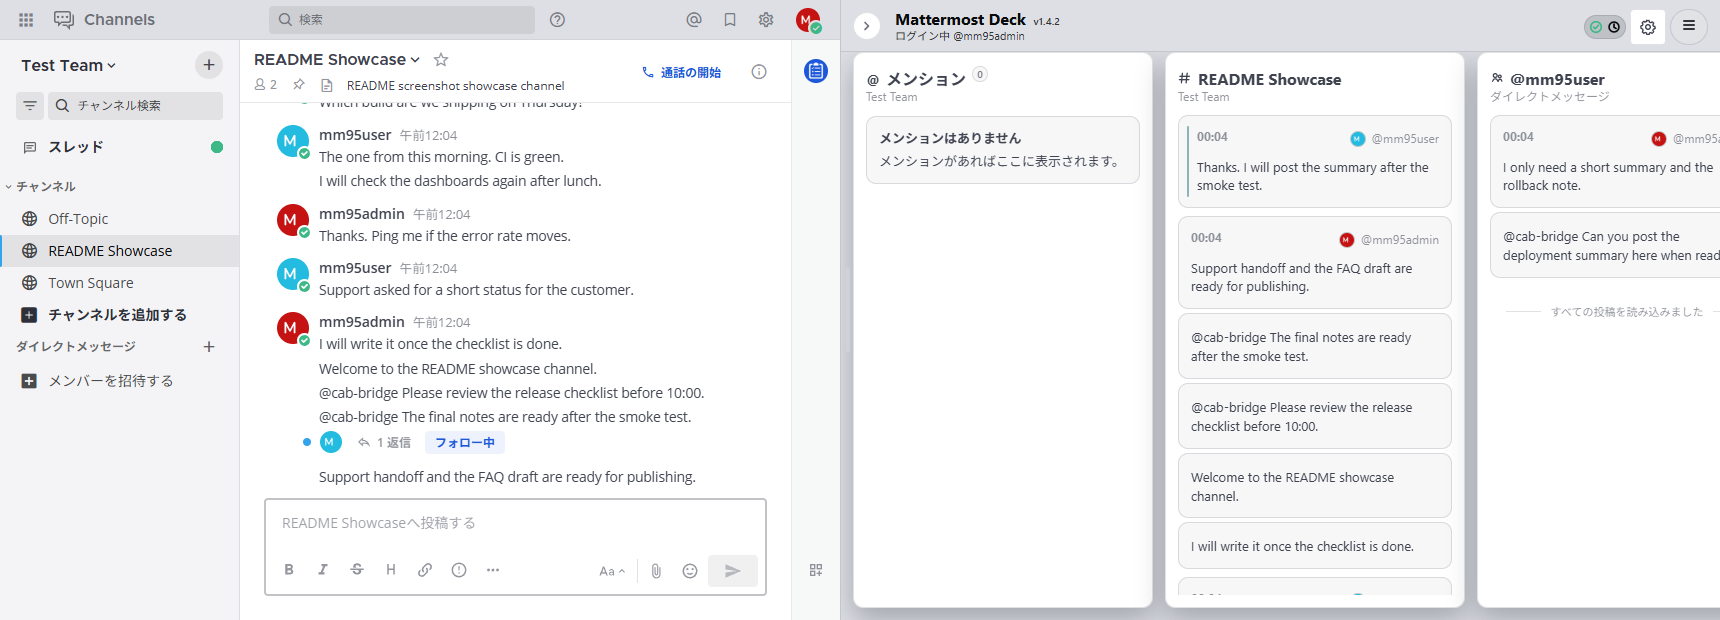
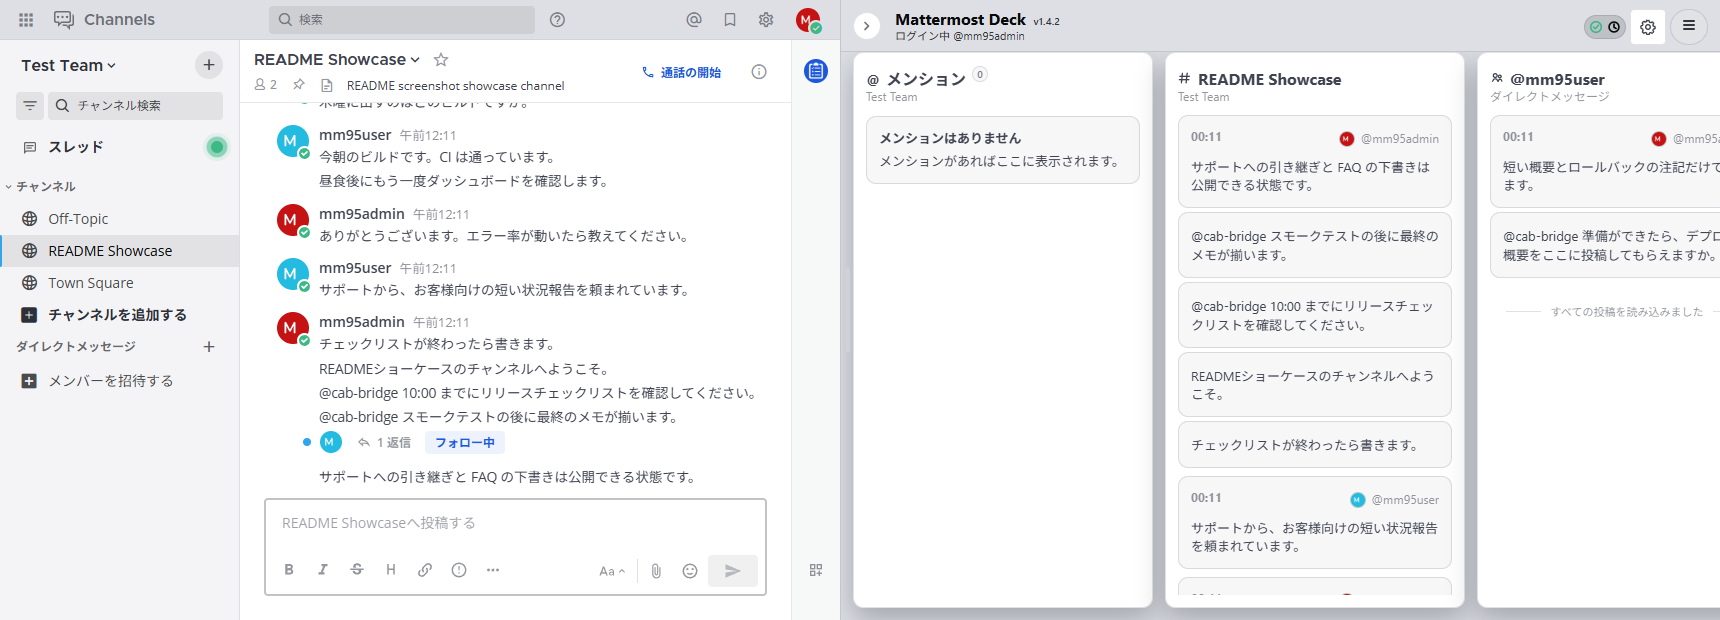
update: localized post text in site screenshots, CSP-clean external CSS/JS for deck-tone mock

diff --git a/mock/deck-tone.html b/mock/deck-tone.html
@@ -6,129 +6,8 @@
 <title>Mattermost Deck</title>
 <meta name="robots" content="noindex">
 <link rel="icon" href="shots/icon.png">
-<script>try{var t=localStorage.getItem('mattermost-deck-site-theme');if(!t)t=matchMedia('(prefers-color-scheme: light)').matches?'light':'dark';document.documentElement.dataset.theme=t}catch(e){}</script>
-<style>
-:root{
-  color-scheme:dark;
-  --mm:#262b32; --rp:#2b3340; --dbg:rgba(28,88,217,.16); --dbd:rgba(138,180,255,.35); --shotbg:#000;
-  --bg:#0f1114; --bar:#0a0b0d; --pane:#16191d; --card:#1b1f24; --card2:#20252b;
-  --line:rgba(255,255,255,.08); --line2:rgba(255,255,255,.14);
-  --text:#e8ecf1; --soft:#aab3be; --faint:#7d8793;
-  --btn:#1c58d9; --btn-h:#2466ec; --accent:#8ab4ff;
-  --r:10px; --gap:12px;
-  --font:"Segoe UI","Noto Sans JP","Yu Gothic UI",Meiryo,system-ui,sans-serif;
-  --mono:ui-monospace,Consolas,Menlo,monospace;
-}
-
-:root[data-theme="light"]{
-  color-scheme:light;
-  --bg:#eef1f5; --bar:#fff; --pane:#fff; --card:#f6f8fa; --card2:#e9edf2;
-  --line:rgba(20,30,45,.10); --line2:rgba(20,30,45,.18);
-  --text:#1b2330; --soft:#4a5565; --faint:#6b7685;
-  --btn:#1c58d9; --btn-h:#1549b8; --accent:#1c58d9;
-  --mm:#e3e8ee; --rp:#d5dde8; --dbg:rgba(28,88,217,.10); --dbd:rgba(28,88,217,.45); --shotbg:#fff;
-}
-*{box-sizing:border-box}
-html{scroll-behavior:smooth;scroll-padding-top:60px}
-body{margin:0;background:var(--bg);color:var(--text);font:14px/1.75 var(--font)}
-a{color:var(--accent)}
-img{max-width:100%;height:auto;display:block}
-code,kbd{font-family:var(--mono);font-size:.9em;background:var(--card2);border:1px solid var(--line);border-radius:4px;padding:0 .35em}
-html[data-lang="ja"] [lang="en"], html[data-lang="en"] [lang="ja"]{display:none}
-.wrap{width:min(1120px,100% - 24px);margin:0 auto}
-
-/* top bar (Deck header) */
-.bar{position:sticky;top:0;z-index:10;background:var(--bar);border-bottom:1px solid var(--line)}
-.bar .wrap{display:flex;align-items:center;gap:var(--gap);height:48px}
-.brand{display:flex;align-items:center;gap:8px;color:var(--text);text-decoration:none;font-weight:600}
-.brand img{width:22px;height:22px;border-radius:5px}
-.brand small{font-weight:400;font-size:11px;color:var(--faint)}
-.bar nav{margin-left:auto;display:flex;gap:4px}
-.bar nav a{color:var(--soft);text-decoration:none;font-size:13px;padding:4px 10px;border-radius:6px}
-.bar nav a:hover{background:var(--card);color:var(--text)}
-.seg{display:flex;border:1px solid var(--line2);border-radius:7px;overflow:hidden}
-.seg button{all:unset;cursor:pointer;font-size:12px;padding:4px 10px;color:var(--soft)}
-.seg button[aria-pressed="true"]{background:var(--card2);color:var(--text)}
-.seg button:focus-visible,.btn:focus-visible,.bar nav a:focus-visible{outline:2px solid var(--accent);outline-offset:2px}
-.tt{all:unset;cursor:pointer;width:30px;height:28px;display:grid;place-items:center;border:1px solid var(--line2);border-radius:7px;color:var(--soft)}
-.tt:hover{background:var(--card);color:var(--text)}.tt:focus-visible{outline:2px solid var(--accent);outline-offset:2px}
-.tt svg{width:15px;height:15px;stroke:currentColor;fill:none;stroke-width:1.5;stroke-linecap:round}
-.tt .sun{display:none}:root[data-theme="light"] .tt .sun{display:block}:root[data-theme="light"] .tt .moon{display:none}
-.btn{display:inline-block;background:var(--btn);color:#fff;text-decoration:none;font-weight:600;font-size:13px;padding:6px 14px;border-radius:7px}
-.btn:hover{background:var(--btn-h)}
-.btn.ghost{background:transparent;border:1px solid var(--line2);color:var(--text);font-weight:400}
-.btn.ghost:hover{background:var(--card)}
-
-/* pane / card */
-.pane{background:var(--pane);border:1px solid var(--line);border-radius:var(--r);padding:var(--gap)}
-.pane>h2{margin:0 0 var(--gap);font-size:15px;font-weight:600;display:flex;align-items:baseline;gap:8px}
-.pane>h2 .sub{font-size:12px;font-weight:400;color:var(--faint)}
-.card{background:var(--card);border:1px solid var(--line);border-radius:8px;padding:10px 12px}
-.card+.card{margin-top:8px}
-.card b{font-weight:600}
-.card p{margin:2px 0 0;color:var(--soft);font-size:13px}
-.id{font-family:var(--mono);font-size:11px;color:var(--faint);margin-left:6px;font-weight:400}
-
-main{padding:var(--gap) 0 24px;display:grid;gap:var(--gap)}
-.cols{display:grid;gap:var(--gap)}
-@media(min-width:860px){
-  .cols.a{grid-template-columns:5fr 7fr}
-  .cols.b{grid-template-columns:7fr 5fr}
-  .cols.c{grid-template-columns:1fr 1fr}
-}
-
-/* hero */
-.hero{display:grid;gap:var(--gap)}
-@media(min-width:860px){.hero{grid-template-columns:minmax(0,4fr) minmax(0,8fr)}}
-.hero .intro{display:flex;flex-direction:column;gap:12px}
-.hero h1{margin:0;font-size:22px;line-height:1.5;font-weight:600;word-break:auto-phrase}
-.hero p{margin:0;color:var(--soft)}
-.hero .actions{display:flex;gap:8px;flex-wrap:wrap;margin-top:4px}
-.spec{width:100%;border-collapse:collapse;font-size:13px;margin-top:auto}
-.spec th{width:6.5em;text-align:left;font-weight:400;color:var(--faint);padding:5px 0;border-top:1px solid var(--line);vertical-align:top}
-.spec td{padding:5px 0;border-top:1px solid var(--line);color:var(--soft)}
-:root[data-theme="light"] .t-dark,:root[data-theme="dark"] .t-light{display:none}
-.shot{margin:0;display:block;border:1px solid var(--line2);border-radius:8px;overflow:hidden;background:var(--shotbg)}
-figcaption{font-size:12px;color:var(--faint);margin-top:8px}
-
-.lead{margin:0 0 var(--gap);color:var(--soft);max-width:70em}
-.stack{display:grid;gap:var(--gap)}
-.band{display:flex;height:26px;font-size:12px;line-height:26px;margin-top:-1px}
-.band .seg{display:block;text-align:center;white-space:nowrap;overflow:hidden;text-overflow:ellipsis;color:var(--soft);background:var(--mm);border-top:2px solid var(--line2)}
-.band .seg+.seg{border-left:1px solid var(--bg)}
-.band .rp{background:var(--rp)}
-.band .dk{background:var(--dbg);color:var(--accent);border-top-color:var(--dbd)}
-@media(max-width:620px){.band{font-size:10px}}
-
-/* tables */
-table.list{width:100%;border-collapse:collapse;font-size:13px}
-table.list td{padding:8px 10px;border-top:1px solid var(--line);vertical-align:top;color:var(--soft)}
-table.list tr:first-child td{border-top:0}
-table.list td.k{color:var(--text);white-space:nowrap;font-weight:600;width:1%;padding-right:18px}
-@media(max-width:620px){
-  table.list,table.list tbody,table.list tr,table.list td{display:block;width:auto}
-  table.list tr{padding:8px 0;border-top:1px solid var(--line)}
-  table.list tr:first-child{border-top:0}
-  table.list td{border:0;padding:1px 2px}
-  table.list td.k{width:auto}
-}
-.shots{display:grid;gap:var(--gap);align-items:start}
-@media(min-width:700px){.shots{grid-template-columns:1fr 1fr}}
-ol.tips{margin:0;padding:0;list-style:none;display:grid;gap:8px}
-@media(min-width:700px){ol.tips{grid-template-columns:1fr 1fr}}
-ol.tips li{background:var(--card);border:1px solid var(--line);border-radius:8px;padding:10px 12px;color:var(--soft);font-size:13px}
-details{background:var(--card);border:1px solid var(--line);border-radius:8px;padding:0 12px}
-details+details{margin-top:8px}
-summary{cursor:pointer;padding:9px 0;font-weight:600;font-size:13.5px}
-details p{margin:0 0 10px;color:var(--soft);font-size:13px}
-.steps{display:grid;gap:8px;counter-reset:s}
-.steps .card{counter-increment:s}
-.steps .card b::before{content:counter(s) ".";color:var(--faint);margin-right:.5em;font-family:var(--mono);font-weight:400}
-footer{border-top:1px solid var(--line);color:var(--faint);font-size:12px;padding:16px 0 28px}
-footer .wrap{display:flex;flex-wrap:wrap;gap:6px 18px}
-footer a{color:var(--soft)}
-@media(max-width:620px){.brand small,.bar .btn{display:none}.brand,.btn{white-space:nowrap}.bar nav{display:none}.bar .wrap{justify-content:space-between}.seg{margin-left:auto}.hero h1{font-size:19px}}
-</style>
+<script src="deck-tone-theme-init.js"></script>
+<link rel="stylesheet" href="deck-tone.css">
 </head>
 <body>
 <header class="bar">
@@ -192,20 +71,20 @@ footer a{color:var(--soft)}
         <img class="t-dark" lang="en" src="shots/wide-dark-en.png" width="1720" height="620" loading="lazy" alt="Deck displayed beside Mattermost">
         <img class="t-light" lang="ja" src="shots/wide-light-ja.png" width="1720" height="620" loading="lazy" alt="Mattermost の右側に Deck を表示した画面">
         <img class="t-light" lang="en" src="shots/wide-light-en.png" width="1720" height="620" loading="lazy" alt="Deck displayed beside Mattermost">
-        <div class="band" aria-hidden="false"><span class="seg mm" style="width:48.84%"><span lang="ja">Mattermost メインコンテンツ</span><span lang="en">Mattermost main content</span></span><span class="seg dk" style="width:51.16%">Deck</span></div>
+        <div class="band" aria-hidden="false"><span class="seg mm w4884"><span lang="ja">Mattermost メインコンテンツ</span><span lang="en">Mattermost main content</span></span><span class="seg dk w5116" >Deck</span></div>
       </figure>
       <figure class="shot annotated">
         <img class="t-dark" lang="ja" src="shots/rhs-dark-ja.png" width="1720" height="620" loading="lazy" alt="スレッドを右ペインで開いたときの画面">
         <img class="t-dark" lang="en" src="shots/rhs-dark-en.png" width="1720" height="620" loading="lazy" alt="With a thread open in the right pane">
         <img class="t-light" lang="ja" src="shots/rhs-light-ja.png" width="1720" height="620" loading="lazy" alt="スレッドを右ペインで開いたときの画面">
         <img class="t-light" lang="en" src="shots/rhs-light-en.png" width="1720" height="620" loading="lazy" alt="With a thread open in the right pane">
-        <div class="band"><span class="seg mm" style="width:46%"><span lang="ja">Mattermost メインコンテンツ</span><span lang="en">Mattermost main content</span></span><span class="seg rp" style="width:31.9%"><span lang="ja">右ペイン（スレッド）</span><span lang="en">Right pane (thread)</span></span><span class="seg dk" style="width:22.1%"><span lang="ja">Deck（縮む）</span><span lang="en">Deck (narrower)</span></span></div>
+        <div class="band"><span class="seg mm w46"><span lang="ja">Mattermost メインコンテンツ</span><span lang="en">Mattermost main content</span></span><span class="seg rp w319"><span lang="ja">右ペイン（スレッド）</span><span lang="en">Right pane (thread)</span></span><span class="seg dk w221"><span lang="ja">Deck（縮む）</span><span lang="en">Deck (narrower)</span></span></div>
       </figure>
     </div>
   </section>
 
   <section id="rows" class="cols b">
-    <figure class="shot" style="align-self:start">
+    <figure class="shot top">
         <img class="t-dark" lang="ja" src="shots/two-rows-dark-ja.png" width="1720" height="948" loading="lazy" alt="上下 2 段に並べたペイン">
         <img class="t-dark" lang="en" src="shots/two-rows-dark-en.png" width="1720" height="948" loading="lazy" alt="Panes arranged in two rows">
         <img class="t-light" lang="ja" src="shots/two-rows-light-ja.png" width="1720" height="948" loading="lazy" alt="上下 2 段に並べたペイン">
@@ -238,8 +117,8 @@ footer a{color:var(--soft)}
   </section>
 
   <section class="shots">
-    <figure class="shot"><img lang="ja" src="shots/overview-light-ja.png" width="1720" height="948" loading="lazy" alt="Deck ライトテーマ"><img lang="en" src="shots/overview-light-en.png" width="1720" height="948" loading="lazy" alt="Deck, light theme"><figcaption style="padding:0 10px 8px"><span lang="ja">ライトテーマ（Mattermost のテーマに追従します）</span><span lang="en">Light theme (Deck follows your Mattermost theme)</span></figcaption></figure>
-    <figure class="shot"><img lang="ja" src="shots/overview-dark-ja.png" width="1720" height="948" loading="lazy" alt="Deck ダークテーマ"><img lang="en" src="shots/overview-dark-en.png" width="1720" height="948" loading="lazy" alt="Deck, dark theme"><figcaption style="padding:0 10px 8px"><span lang="ja">ダークテーマ</span><span lang="en">Dark theme</span></figcaption></figure>
+    <figure class="shot"><img lang="ja" src="shots/overview-light-ja.png" width="1720" height="948" loading="lazy" alt="Deck ライトテーマ"><img lang="en" src="shots/overview-light-en.png" width="1720" height="948" loading="lazy" alt="Deck, light theme"><figcaption class="pad"><span lang="ja">ライトテーマ（Mattermost のテーマに追従します）</span><span lang="en">Light theme (Deck follows your Mattermost theme)</span></figcaption></figure>
+    <figure class="shot"><img lang="ja" src="shots/overview-dark-ja.png" width="1720" height="948" loading="lazy" alt="Deck ダークテーマ"><img lang="en" src="shots/overview-dark-en.png" width="1720" height="948" loading="lazy" alt="Deck, dark theme"><figcaption class="pad"><span lang="ja">ダークテーマ</span><span lang="en">Dark theme</span></figcaption></figure>
   </section>
 
   <section id="data" class="cols c">
@@ -293,13 +172,6 @@ footer a{color:var(--soft)}
   </div>
 </footer>
 
-<script>
-(()=>{const k="mattermost-deck-site-language",h=document.documentElement;
-const set=l=>{h.dataset.lang=l;h.lang=l;document.querySelectorAll("[data-set]").forEach(b=>b.setAttribute("aria-pressed",String(b.dataset.set===l)));try{localStorage.setItem(k,l)}catch{}};
-let l=new URLSearchParams(location.search).get("lang");try{l=l||localStorage.getItem(k)}catch{}
-if(l!=="ja"&&l!=="en")l=navigator.language.toLowerCase().startsWith("ja")?"ja":"en";
-document.getElementById('tt').onclick=()=>{const n=h.dataset.theme==='light'?'dark':'light';h.dataset.theme=n;try{localStorage.setItem('mattermost-deck-site-theme',n)}catch{}};
-set(l);document.querySelectorAll("[data-set]").forEach(b=>b.onclick=()=>set(b.dataset.set));})();
-</script>
+<script src="deck-tone.js" defer></script>
 </body>
 </html>

diff --git a/mock/deck-tone.css b/mock/deck-tone.css
@@ -1,0 +1,126 @@
+:root{
+  color-scheme:dark;
+  --mm:#262b32; --rp:#2b3340; --dbg:rgba(28,88,217,.16); --dbd:rgba(138,180,255,.35); --shotbg:#000;
+  --bg:#0f1114; --bar:#0a0b0d; --pane:#16191d; --card:#1b1f24; --card2:#20252b;
+  --line:rgba(255,255,255,.08); --line2:rgba(255,255,255,.14);
+  --text:#e8ecf1; --soft:#aab3be; --faint:#7d8793;
+  --btn:#1c58d9; --btn-h:#2466ec; --accent:#8ab4ff;
+  --r:10px; --gap:12px;
+  --font:"Segoe UI","Noto Sans JP","Yu Gothic UI",Meiryo,system-ui,sans-serif;
+  --mono:ui-monospace,Consolas,Menlo,monospace;
+}
+
+:root[data-theme="light"]{
+  color-scheme:light;
+  --bg:#eef1f5; --bar:#fff; --pane:#fff; --card:#f6f8fa; --card2:#e9edf2;
+  --line:rgba(20,30,45,.10); --line2:rgba(20,30,45,.18);
+  --text:#1b2330; --soft:#4a5565; --faint:#6b7685;
+  --btn:#1c58d9; --btn-h:#1549b8; --accent:#1c58d9;
+  --mm:#e3e8ee; --rp:#d5dde8; --dbg:rgba(28,88,217,.10); --dbd:rgba(28,88,217,.45); --shotbg:#fff;
+}
+*{box-sizing:border-box}
+html{scroll-behavior:smooth;scroll-padding-top:60px}
+body{margin:0;background:var(--bg);color:var(--text);font:14px/1.75 var(--font)}
+a{color:var(--accent)}
+img{max-width:100%;height:auto;display:block}
+code,kbd{font-family:var(--mono);font-size:.9em;background:var(--card2);border:1px solid var(--line);border-radius:4px;padding:0 .35em}
+html[data-lang="ja"] [lang="en"], html[data-lang="en"] [lang="ja"]{display:none}
+.wrap{width:min(1120px,100% - 24px);margin:0 auto}
+
+/* top bar (Deck header) */
+.bar{position:sticky;top:0;z-index:10;background:var(--bar);border-bottom:1px solid var(--line)}
+.bar .wrap{display:flex;align-items:center;gap:var(--gap);height:48px}
+.brand{display:flex;align-items:center;gap:8px;color:var(--text);text-decoration:none;font-weight:600}
+.brand img{width:22px;height:22px;border-radius:5px}
+.brand small{font-weight:400;font-size:11px;color:var(--faint)}
+.bar nav{margin-left:auto;display:flex;gap:4px}
+.bar nav a{color:var(--soft);text-decoration:none;font-size:13px;padding:4px 10px;border-radius:6px}
+.bar nav a:hover{background:var(--card);color:var(--text)}
+.seg{display:flex;border:1px solid var(--line2);border-radius:7px;overflow:hidden}
+.seg button{all:unset;cursor:pointer;font-size:12px;padding:4px 10px;color:var(--soft)}
+.seg button[aria-pressed="true"]{background:var(--card2);color:var(--text)}
+.seg button:focus-visible,.btn:focus-visible,.bar nav a:focus-visible{outline:2px solid var(--accent);outline-offset:2px}
+.tt{all:unset;cursor:pointer;width:30px;height:28px;display:grid;place-items:center;border:1px solid var(--line2);border-radius:7px;color:var(--soft)}
+.tt:hover{background:var(--card);color:var(--text)}.tt:focus-visible{outline:2px solid var(--accent);outline-offset:2px}
+.tt svg{width:15px;height:15px;stroke:currentColor;fill:none;stroke-width:1.5;stroke-linecap:round}
+.tt .sun{display:none}:root[data-theme="light"] .tt .sun{display:block}:root[data-theme="light"] .tt .moon{display:none}
+.btn{display:inline-block;background:var(--btn);color:#fff;text-decoration:none;font-weight:600;font-size:13px;padding:6px 14px;border-radius:7px}
+.btn:hover{background:var(--btn-h)}
+.btn.ghost{background:transparent;border:1px solid var(--line2);color:var(--text);font-weight:400}
+.btn.ghost:hover{background:var(--card)}
+
+/* pane / card */
+.pane{background:var(--pane);border:1px solid var(--line);border-radius:var(--r);padding:var(--gap)}
+.pane>h2{margin:0 0 var(--gap);font-size:15px;font-weight:600;display:flex;align-items:baseline;gap:8px}
+.pane>h2 .sub{font-size:12px;font-weight:400;color:var(--faint)}
+.card{background:var(--card);border:1px solid var(--line);border-radius:8px;padding:10px 12px}
+.card+.card{margin-top:8px}
+.card b{font-weight:600}
+.card p{margin:2px 0 0;color:var(--soft);font-size:13px}
+.id{font-family:var(--mono);font-size:11px;color:var(--faint);margin-left:6px;font-weight:400}
+
+main{padding:var(--gap) 0 24px;display:grid;gap:var(--gap)}
+.cols{display:grid;gap:var(--gap)}
+@media(min-width:860px){
+  .cols.a{grid-template-columns:5fr 7fr}
+  .cols.b{grid-template-columns:7fr 5fr}
+  .cols.c{grid-template-columns:1fr 1fr}
+}
+
+/* hero */
+.hero{display:grid;gap:var(--gap)}
+@media(min-width:860px){.hero{grid-template-columns:minmax(0,4fr) minmax(0,8fr)}}
+.hero .intro{display:flex;flex-direction:column;gap:12px}
+.hero h1{margin:0;font-size:22px;line-height:1.5;font-weight:600;word-break:auto-phrase}
+.hero p{margin:0;color:var(--soft)}
+.hero .actions{display:flex;gap:8px;flex-wrap:wrap;margin-top:4px}
+.spec{width:100%;border-collapse:collapse;font-size:13px;margin-top:auto}
+.spec th{width:6.5em;text-align:left;font-weight:400;color:var(--faint);padding:5px 0;border-top:1px solid var(--line);vertical-align:top}
+.spec td{padding:5px 0;border-top:1px solid var(--line);color:var(--soft)}
+:root[data-theme="light"] .t-dark,:root[data-theme="dark"] .t-light{display:none}
+.shot{margin:0;display:block;border:1px solid var(--line2);border-radius:8px;overflow:hidden;background:var(--shotbg)}
+figcaption{font-size:12px;color:var(--faint);margin-top:8px}
+
+.lead{margin:0 0 var(--gap);color:var(--soft);max-width:70em}
+.stack{display:grid;gap:var(--gap)}
+.band{display:flex;height:26px;font-size:12px;line-height:26px;margin-top:-1px}
+.band .seg{display:block;text-align:center;white-space:nowrap;overflow:hidden;text-overflow:ellipsis;color:var(--soft);background:var(--mm);border-top:2px solid var(--line2)}
+.band .seg+.seg{border-left:1px solid var(--bg)}
+.band .rp{background:var(--rp)}
+.band .dk{background:var(--dbg);color:var(--accent);border-top-color:var(--dbd)}
+@media(max-width:620px){.band{font-size:10px}}
+
+/* tables */
+table.list{width:100%;border-collapse:collapse;font-size:13px}
+table.list td{padding:8px 10px;border-top:1px solid var(--line);vertical-align:top;color:var(--soft)}
+table.list tr:first-child td{border-top:0}
+table.list td.k{color:var(--text);white-space:nowrap;font-weight:600;width:1%;padding-right:18px}
+@media(max-width:620px){
+  table.list,table.list tbody,table.list tr,table.list td{display:block;width:auto}
+  table.list tr{padding:8px 0;border-top:1px solid var(--line)}
+  table.list tr:first-child{border-top:0}
+  table.list td{border:0;padding:1px 2px}
+  table.list td.k{width:auto}
+}
+.shots{display:grid;gap:var(--gap);align-items:start}
+@media(min-width:700px){.shots{grid-template-columns:1fr 1fr}}
+ol.tips{margin:0;padding:0;list-style:none;display:grid;gap:8px}
+@media(min-width:700px){ol.tips{grid-template-columns:1fr 1fr}}
+ol.tips li{background:var(--card);border:1px solid var(--line);border-radius:8px;padding:10px 12px;color:var(--soft);font-size:13px}
+details{background:var(--card);border:1px solid var(--line);border-radius:8px;padding:0 12px}
+details+details{margin-top:8px}
+summary{cursor:pointer;padding:9px 0;font-weight:600;font-size:13.5px}
+details p{margin:0 0 10px;color:var(--soft);font-size:13px}
+.steps{display:grid;gap:8px;counter-reset:s}
+.steps .card{counter-increment:s}
+.steps .card b::before{content:counter(s) ".";color:var(--faint);margin-right:.5em;font-family:var(--mono);font-weight:400}
+footer{border-top:1px solid var(--line);color:var(--faint);font-size:12px;padding:16px 0 28px}
+footer .wrap{display:flex;flex-wrap:wrap;gap:6px 18px}
+footer a{color:var(--soft)}
+@media(max-width:900px){.bar nav{display:none}.bar .wrap{justify-content:space-between}}
+.bar nav a,.btn,.seg button{white-space:nowrap}
+@media(max-width:620px){.brand small,.bar .btn{display:none}.brand,.btn{white-space:nowrap}.bar nav{display:none}.bar .wrap{justify-content:space-between}.seg{margin-left:auto}.hero h1{font-size:19px}}
+.top{align-self:start}
+figcaption.pad{padding:0 10px 8px}
+.band .w4884{width:48.84%}.band .w5116{width:51.16%}
+.band .w46{width:46%}.band .w319{width:31.9%}.band .w221{width:22.1%}

diff --git a/mock/deck-tone.js b/mock/deck-tone.js
@@ -1,0 +1,6 @@
+(()=>{const k="mattermost-deck-site-language",h=document.documentElement;
+const set=l=>{h.dataset.lang=l;h.lang=l;document.querySelectorAll("[data-set]").forEach(b=>b.setAttribute("aria-pressed",String(b.dataset.set===l)));try{localStorage.setItem(k,l)}catch{}};
+let l=new URLSearchParams(location.search).get("lang");try{l=l||localStorage.getItem(k)}catch{}
+if(l!=="ja"&&l!=="en")l=navigator.language.toLowerCase().startsWith("ja")?"ja":"en";
+document.getElementById('tt').onclick=()=>{const n=h.dataset.theme==='light'?'dark':'light';h.dataset.theme=n;try{localStorage.setItem('mattermost-deck-site-theme',n)}catch{}};
+set(l);document.querySelectorAll("[data-set]").forEach(b=>b.onclick=()=>set(b.dataset.set));})();

diff --git a/mock/deck-tone-theme-init.js b/mock/deck-tone-theme-init.js
@@ -1,0 +1,1 @@
+try{var t=localStorage.getItem('mattermost-deck-site-theme');if(!t)t=matchMedia('(prefers-color-scheme: light)').matches?'light':'dark';document.documentElement.dataset.theme=t}catch(e){}
